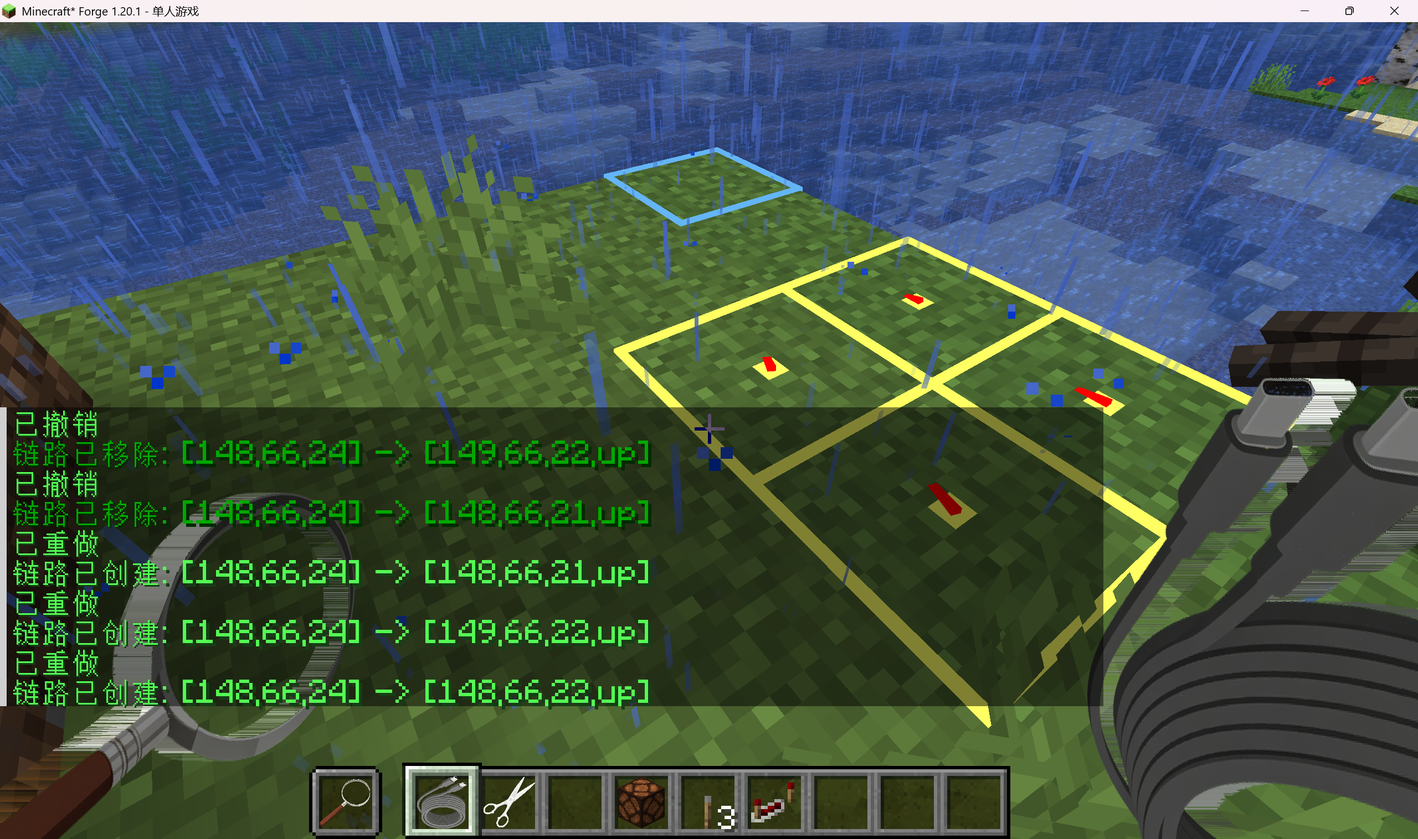
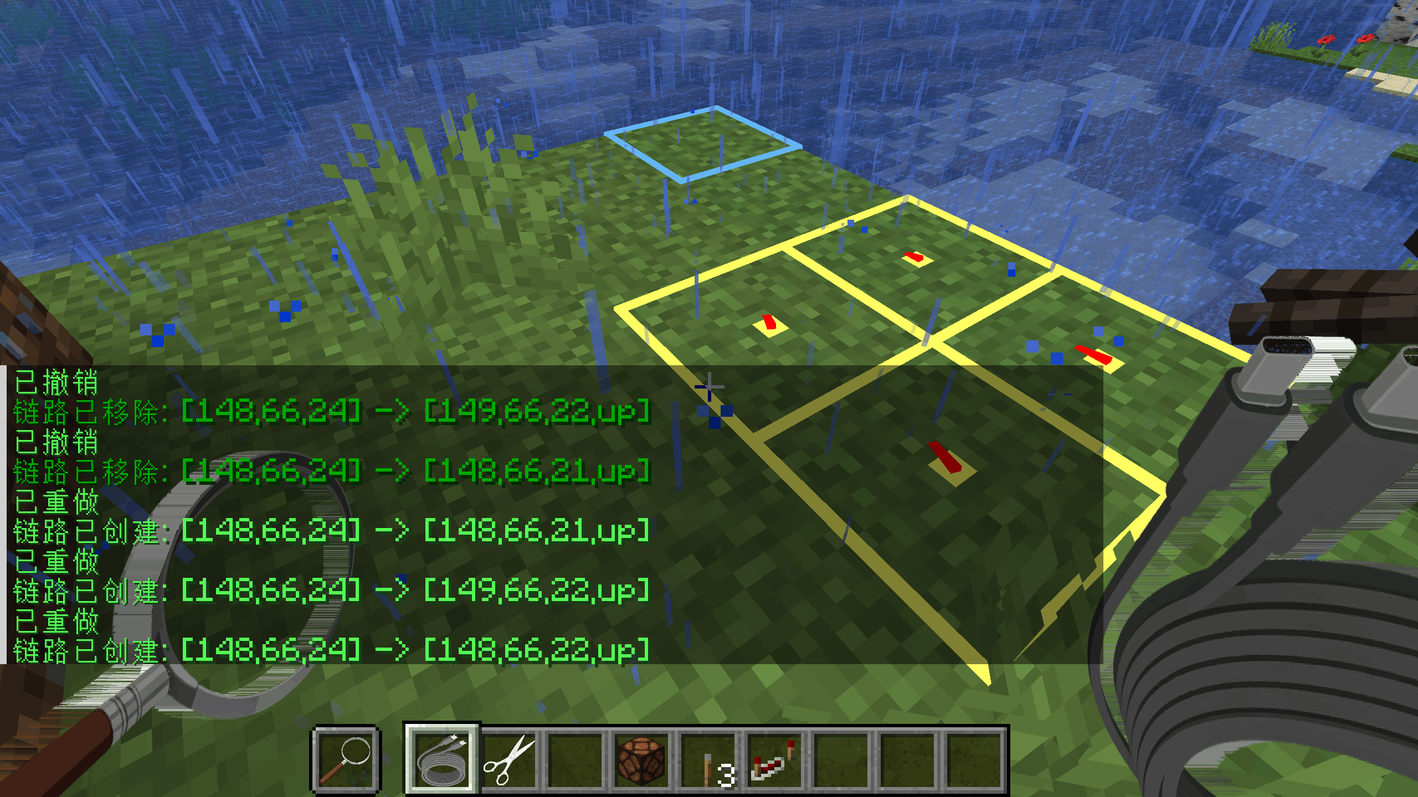
update 41.png

diff --git a/CHANGELOG.md b/CHANGELOG.md
@@ -1,5 +1,14 @@
 # 变更日志
 
+## 9ecff88
+### v0.5.0 [迭代版本号、修复撤销/重做按键积压、更新文档]
+
+- 版本号迭代至 0.5.0（build.gradle 单源化，产物 v0.5.0-forge-mc1.20.1.jar）
+- 修复: 未手持工具时 consumeClick 未消费导致按键事件积压, 手持后一次性触发大量异常撤销/重做
+- README 中英版: 撤销/重做小节扩展为使用教程, 新增使用建议(副手放大镜辅助)与安装说明, 修复 ClientConfig 过时描述, 统一中文标点为全角
+- curseforge 发布描述: 中英双语新增撤销/重做教程(配 41.png)
+- 新增 curseforge/41.png
+
 ## 9797d38
 ### 实现客户端撤销/重做机制
 
